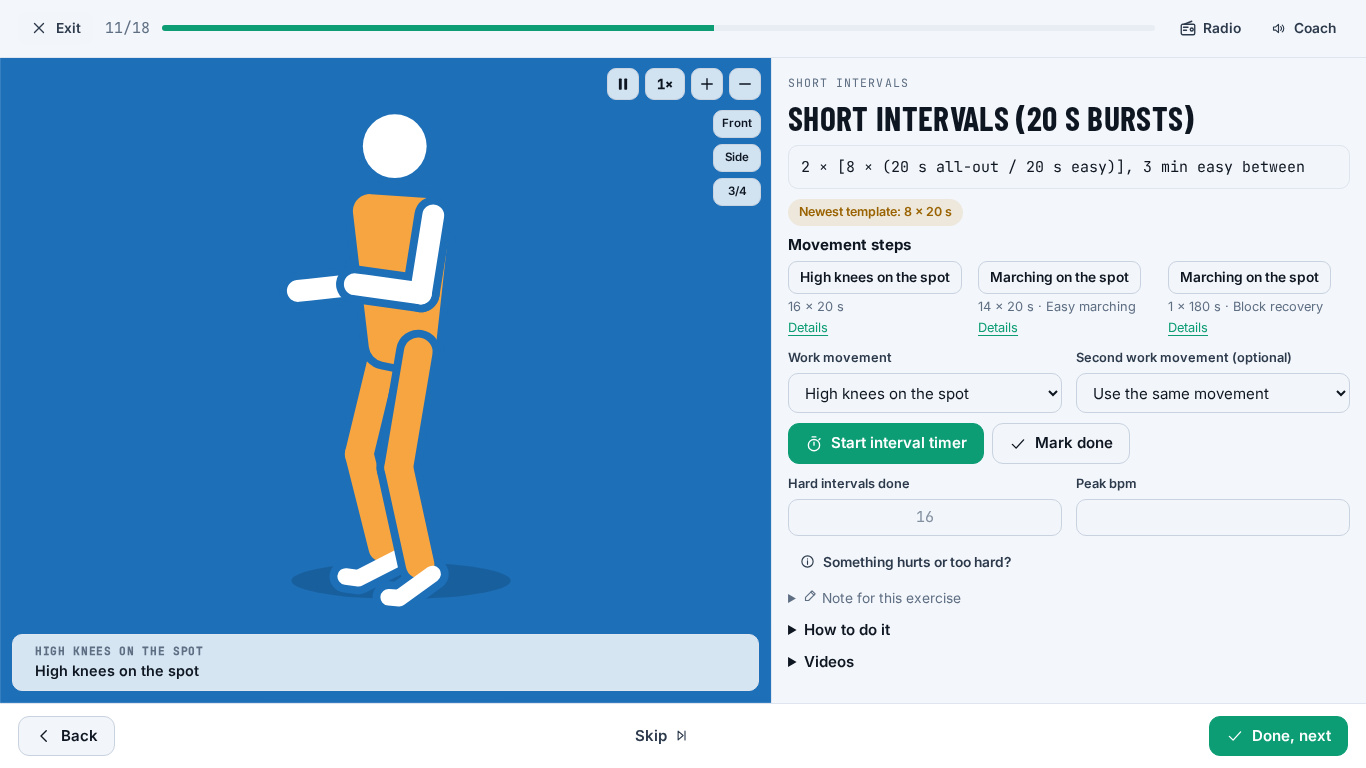
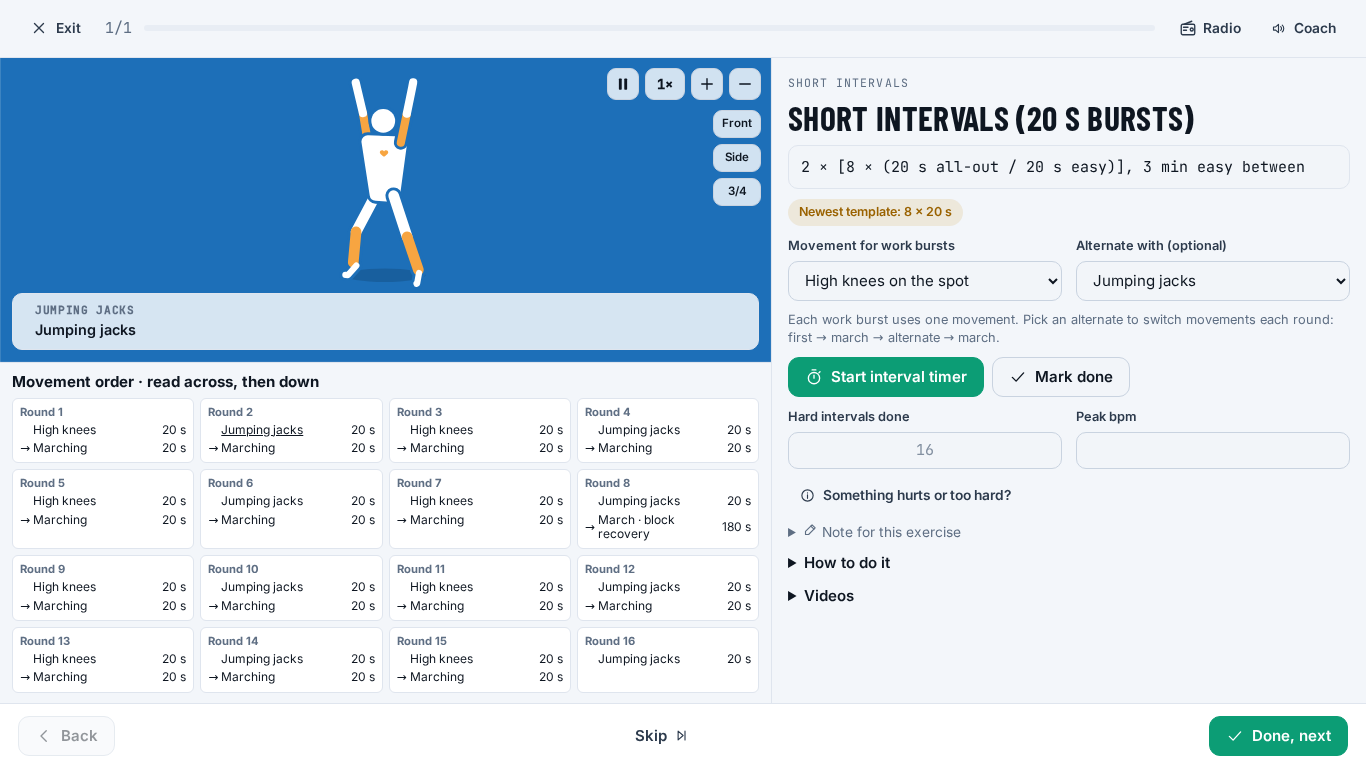
Show guided interval rounds in order and clarify movement choices

diff --git a/public/js/views/guided.js b/public/js/views/guided.js
@@ -58,7 +58,7 @@ export function startGuided(date, onExit) {
       <div class="bar"><i></i></div>
       <div class="radio-host"></div>
     </div>
-    <div class="guided-main"><div class="stage-host"></div><div><p class="guided-voice-status muted" role="status" aria-live="polite"></p><div class="guided-side"></div></div></div>
+    <div class="guided-main"><div class="guided-demo"><div class="stage-host"></div><div data-routine></div></div><div><p class="guided-voice-status muted" role="status" aria-live="polite"></p><div class="guided-side"></div></div></div>
     <div class="guided-bottom">
       <button type="button" class="btn" data-g="prev">${icon("chevronL")} Back</button>
       <button type="button" class="btn ghost" data-g="skip">Skip ${icon("skip", "sm")}</button>
@@ -88,6 +88,7 @@ export function startGuided(date, onExit) {
     stopRest(); voice.finish();
     const done = steps.filter((s) => stepDone(date, s)).length;
     stage.pause();
+    wrap.querySelector("[data-routine]").innerHTML = "";
     side.innerHTML = `<span class="eyebrow">Finished</span><h2 class="display" style="font-size:2.2rem">Workout complete</h2>
       <p>${done} of ${steps.length} steps done. You can record how it felt in the day's notes.</p>
       <div class="btn-row"><button type="button" class="btn primary" data-g="close">${icon("check")} Back to the day</button></div>
@@ -112,6 +113,7 @@ export function startGuided(date, onExit) {
     bar.style.width = `${(i / steps.length) * 100}%`;
     count.textContent = `${i + 1}/${steps.length}`;
     const itemLog = getItemLog(date, s.scope, s.item.id);
+    wrap.querySelector("[data-routine]").innerHTML = ex.routine ? routineHtml(s.item, s.level, itemLog || {}, { compact: true }) : "";
     side.innerHTML = `
       <span class="eyebrow">${esc(s.item.group || s.block)}${s.round ? ` · Round ${s.round} of ${s.rounds}` : ""}</span>
       <h2 class="display" style="font-size:2.1rem;line-height:1">${esc(s.item.label ? personalize(s.item.label, p) : ex.name)}</h2>
@@ -119,11 +121,10 @@ export function startGuided(date, onExit) {
       ${s.item.bryan ? `<span class="chip bryan" style="justify-self:start">${esc(personalize(s.item.bryan, p))}</span>` : ""}
       ${s.setIndex != null ? `<p class="muted">Complete set ${s.setIndex + 1} of ${s.sets}, then continue to the next movement.</p>` : ""}
       ${alternativeHtml(s.item, s.level)}
-      ${ex.routine ? `<div data-routine>${routineHtml(s.item, s.level, itemLog || {}, { compact: true })}</div>` : ""}
       <div class="logger-host${s.scope !== "main" ? " addon-scope" : ""}"></div>
       <details><summary style="cursor:pointer;font-weight:600">How to do it</summary><div style="margin-top:10px">${exerciseInfoHtml(ex)}</div></details>
       <details><summary style="cursor:pointer;font-weight:600">Videos</summary><div style="margin-top:10px" data-g="videos"></div></details>`;
-    renderLogger(side.querySelector(".logger-host"), { date, item: s.item, ex, level: s.level, scope: s.scope, setIndex: s.setIndex, onDraw: (log) => { const host = side.querySelector("[data-routine]"); if (host) host.innerHTML = routineHtml(s.item, s.level, log, { compact: true }); voice.changed(); } });
+    renderLogger(side.querySelector(".logger-host"), { date, item: s.item, ex, level: s.level, scope: s.scope, setIndex: s.setIndex, onDraw: (log) => { const host = wrap.querySelector("[data-routine]"); if (host) host.innerHTML = ex.routine ? routineHtml(s.item, s.level, log, { compact: true }) : ""; voice.changed(); } });
     videoCtrl = renderVideos(side.querySelector('[data-g="videos"]'), videosFor(demo), {
       groups: videoGroupsFor(demo),
       activeGroup: stage.clipIndex,

diff --git a/public/js/components/routine.js b/public/js/components/routine.js
@@ -14,19 +14,17 @@ export function routineSteps(item, level, log = {}) {
 }
 
 export function routineHtml(item, level, log, { compact = false } = {}) {
-  let steps = routineSteps(item, level, log);
-  if (compact) {
-    const grouped = new Map();
+  const steps = routineSteps(item, level, log);
+  if (compact && steps.some((step) => step.round)) {
+    const rounds = [];
     for (const step of steps) {
-      const key = JSON.stringify([step.ex, step.sec, step.kind, step.kind === "rest" ? step.label : ""]);
-      const entry = grouped.get(key);
-      if (entry) entry.count += 1;
-      else grouped.set(key, { ...step, count: 1 });
+      if (step.round && rounds.at(-1)?.number !== step.round) rounds.push({ number: step.round, steps: [] });
+      rounds.at(-1).steps.push(step);
     }
-    steps = [...grouped.values()].map((step) => ({ ...step, dose: step.sec ? `${step.count} × ${step.sec} s${step.kind === "rest" ? ` · ${step.label}` : ""}` : step.dose }));
+    return `<div class="routine"><h4>Movement order · read across, then down</h4><ol class="routine-rounds">${rounds.map((round) => `<li><b>Round ${round.number}</b>${round.steps.map((step, index) => `<div class="routine-phase"><span aria-hidden="true">${index ? "→" : ""}</span><button type="button" data-movement="${esc(step.ex)}" title="${esc(EXERCISES[step.ex].name)}${step.label === "Block recovery" ? " · Block recovery" : ""}">${esc(step.label === "Block recovery" ? "March · block recovery" : EXERCISES[step.ex].name.replace(/ on the spot$/, ""))}</button><span>${step.sec} s</span></div>`).join("")}</li>`).join("")}</ol></div>`;
   }
   if (!steps.length) return "";
-  return `<div class="routine"><h4>Movement steps</h4><ol class="routine-steps${compact ? " routine-compact" : ""}">${steps.map((step) => `<li><button type="button" class="btn sm" data-movement="${esc(step.ex)}">${esc(EXERCISES[step.ex].name)}</button><span class="muted">${esc(step.dose)}</span><a href="#/library/${step.ex}" aria-label="Instructions for ${esc(EXERCISES[step.ex].name)}">Details</a></li>`).join("")}</ol></div>`;
+  return `<div class="routine"><h4>Movement steps</h4><ol class="routine-steps">${steps.map((step) => `<li><button type="button" class="btn sm" data-movement="${esc(step.ex)}">${esc(EXERCISES[step.ex].name)}</button><span class="muted">${esc(step.dose)}</span><a href="#/library/${step.ex}" aria-label="Instructions for ${esc(EXERCISES[step.ex].name)}">Details</a></li>`).join("")}</ol></div>`;
 }
 
 export function alternativeHtml(item, level) {

diff --git a/public/js/components/logger.js b/public/js/components/logger.js
@@ -287,7 +287,7 @@ export function renderLogger(container, ctx) {
     } else if (type === "intervals") {
       const presets = timerPresets(item, level);
       const pi = Math.min(l.preset || 0, Math.max(0, presets.length - 1));
-      if (item.ex === "shortint") body += `<div class="grid-form">${[0, 1].map((index) => `<label class="field"><span>${index ? "Second work movement (optional)" : "Work movement"}</span><select class="input" data-interval-move="${index}">${index ? '<option value="">Use the same movement</option>' : ""}${INTERVAL_MOVES.map((id) => `<option value="${id}" ${(l.moves?.[index] || (index === 0 ? "highknees" : "")) === id ? "selected" : ""}>${esc(EXERCISES[id].name)}</option>`).join("")}</select></label>`).join("")}</div>`;
+      if (item.ex === "shortint") body += `<div class="grid-form">${[0, 1].map((index) => `<label class="field"><span>${index ? "Alternate with (optional)" : "Movement for work bursts"}</span><select class="input" data-interval-move="${index}">${index ? '<option value="">Same movement every burst</option>' : ""}${INTERVAL_MOVES.map((id) => `<option value="${id}" ${(l.moves?.[index] || (index === 0 ? "highknees" : "")) === id ? "selected" : ""}>${esc(EXERCISES[id].name)}</option>`).join("")}</select></label>`).join("")}</div><p class="muted interval-choice-help">Each work burst uses one movement. Pick an alternate to switch movements each round: first → march → alternate → march.</p>`;
       body += `${presets.length > 1 ? `<div class="seg" role="group" aria-label="Preset">${presets.map((pr, i) => `<button type="button" data-preset="${i}" aria-pressed="${i === pi}">${esc(pr.label)}</button>`).join("")}</div>` : ""}
         <div class="btn-row"><button type="button" class="btn primary" data-l="intervals">${icon("timer")} Start interval timer</button>${doneBtn}</div>
         <div class="grid-form" style="grid-template-columns:repeat(2,minmax(0,1fr))">

diff --git a/tests/movements.test.js b/tests/movements.test.js
@@ -129,7 +129,7 @@ test("new deadlift logs do not complete the separate jumps automatically", () =>
   assert.equal(itemLog(log, "main", "fri-strength-rdl-jumps").done, true);
 });
 
-test("compact interval lists preserve every phase dose without repeating rows", () => {
+test("compact interval rounds preserve every movement and duration in order", () => {
   for (const ex of ["shortint", "norwegian"]) {
     const item = day(ex === "shortint" ? "tue" : "thu").blocks.flatMap((b) => b.items).find((it) => it.ex === ex);
     for (let level = 0; level < 4; level++) {
@@ -137,9 +137,10 @@ test("compact interval lists preserve every phase dose without repeating rows", 
         const log = { preset, moves: ["highknees", "jacks"] };
         const steps = routineSteps(item, level, log);
         const html = routineHtml(item, level, log, { compact: true });
-        const doses = [...html.matchAll(/(\d+) × (\d+) s/g)];
-        assert.equal(doses.reduce((sum, m) => sum + Number(m[1]) * Number(m[2]), 0), steps.reduce((sum, step) => sum + step.sec, 0));
-        assert.ok((html.match(/<li>/g) || []).length <= 6);
+        assert.deepEqual([...html.matchAll(/data-movement="([^"]+)"/g)].map((m) => m[1]), steps.map((step) => step.ex));
+        assert.deepEqual([...html.matchAll(/<span>(\d+) s<\/span>/g)].map((m) => Number(m[1])), steps.map((step) => step.sec));
+        const count = timerPresets(item, level)[preset].rounds * (timerPresets(item, level)[preset].blocks || 1);
+        assert.deepEqual([...html.matchAll(/<b>Round (\d+)<\/b>/g)].map((m) => Number(m[1])), Array.from({ length: count }, (_, i) => i + 1));
         assert.equal((routineHtml(item, level, log).match(/<li>/g) || []).length, steps.length);
       }
     }

diff --git a/public/css/app.css b/public/css/app.css
@@ -1045,5 +1045,18 @@ td.cur, th.cur { background: var(--accent-soft); }
 .timer:has(.interval-stage) .timer-ring { width: min(220px, 65vw); }
 .timer:has(.interval-stage) .phase { font-size: 1rem; padding: 0 12px; }
 
-.routine-compact { padding: 0; list-style: none; grid-template-columns: repeat(auto-fit, minmax(150px, 1fr)); }
-.routine-compact li { padding: 0; }
+.guided-demo { display: grid; grid-template-rows: minmax(200px, 1fr) auto; overflow: auto; }
+.guided-demo > [data-routine]:not(:empty) { padding: 10px 12px; border-right: 1px solid var(--line); border-top: 1px solid var(--line); }
+.routine-rounds { margin: 0; padding: 0; list-style: none; display: grid; grid-template-columns: repeat(4, minmax(0, 1fr)); gap: 6px; }
+.routine-rounds > li { min-width: 0; padding: 5px 7px; border: 1px solid var(--line); border-radius: 6px; background: var(--surface); font-size: 0.75rem; }
+.routine-rounds b { display: block; color: var(--muted); font-size: 0.7rem; }
+.routine-phase { display: grid; grid-template-columns: 10px minmax(0, 1fr) auto; gap: 3px; align-items: center; }
+.routine-phase button { padding: 2px 0; border: 0; background: none; color: var(--ink); font: inherit; text-align: left; line-height: 1.2; cursor: pointer; }
+.routine-phase button:hover { text-decoration: underline; }
+.interval-choice-help { font-size: 0.8rem; line-height: 1.4; }
+@media (max-width: 900px) {
+  .guided-main { display: block; }
+  .guided-main .stage { height: 42vh; }
+  .guided-demo { display: block; overflow: visible; }
+  .routine-rounds { grid-template-columns: repeat(2, minmax(0, 1fr)); }
+}

diff --git a/README.md b/README.md
@@ -10,7 +10,7 @@ A local web app that plans and tracks a six-day home workout built from **Bryan 
 - **Tracking**: sets × reps × weight, holds, cardio minutes and heart rate, interval rounds, notes per exercise and per day, effort and energy, extra activity (desk treadmill, walks…), body weight.
 - **Auto-save**: there is no Save button. Everything is written to your own computer as you type.
 - **Skipped days are fine**: skip with a reason and a note, swap sessions around; nothing moves on without you.
-- **Guided workout mode** keeps the full demonstration visible on desktop and groups repeated interval movements with their repeat counts. The optional local voice coach has five English voices, personalised doses, set and timer cues, and form tips during rest. Interval, hold and rest timers also have beeps.
+- **Guided workout mode** keeps the full demonstration visible on desktop and shows interval rounds in order beneath it, with each work burst and recovery listed. The optional local voice coach has five English voices, personalised doses, set and timer cues, and form tips during rest. Interval, hold and rest timers also have beeps.
 - **Radio in guided workouts**: open **Radio** in the top bar to choose from 19 stations across electronic, rock, metal, hip-hop, dance, indie and more, with volume, mute and previous/next controls. FIP Electro is the default. Music gets quieter while the coach speaks, then returns to your chosen volume.
 - **Next time, on the plan's rule**: every strength exercise gets a one-line suggestion (repeat, add 1–2 kg for upper body or 2–4 kg for legs, or add a rep) showing how far along the two-sessions-at-the-top rule you are (for example “1 of 2 sessions at the top”). Tap **Use** to fill it in. After a level change the count starts fresh at the new level's range.
 - **Level check**: the plan's own move-up checkpoints (sessions and weeks at your level, plus the two questions for that level) in **Today → Notes & observations** and again after a guided workout. A **Level check ready** chip appears in the day header when both checks are done, and moving up first explains what the next level changes. A step-down reminder follows a long break. You always change level yourself; past logs keep theirs.
@@ -252,7 +252,7 @@ Unpacked audio stays in the gitignored `.voice/` folder, separate from personal 
 <img src="docs/screenshots/mobile-guided-coach.png" width="25%" alt="Voice coach controls on a phone">
 </p>
 
-![Guided short intervals with compact movement counts and the full demonstration visible](docs/screenshots/guided-intervals.png)
+![Guided short intervals with numbered rounds in order beneath the demonstration](docs/screenshots/guided-intervals.png)
 
 ## Themes
 

diff --git a/CHANGELOG.md b/CHANGELOG.md
@@ -1,5 +1,11 @@
 # Changelog
 
+## [1.34.3] - 2026-10-20
+
+### Fixed
+- Guided intervals show every round in order beneath the demonstration, including recovery breaks.
+- Short-interval choices explain that the optional alternate movement is used every other work burst.
+
 ## [1.34.2] - 2026-10-20
 
 ### Fixed
